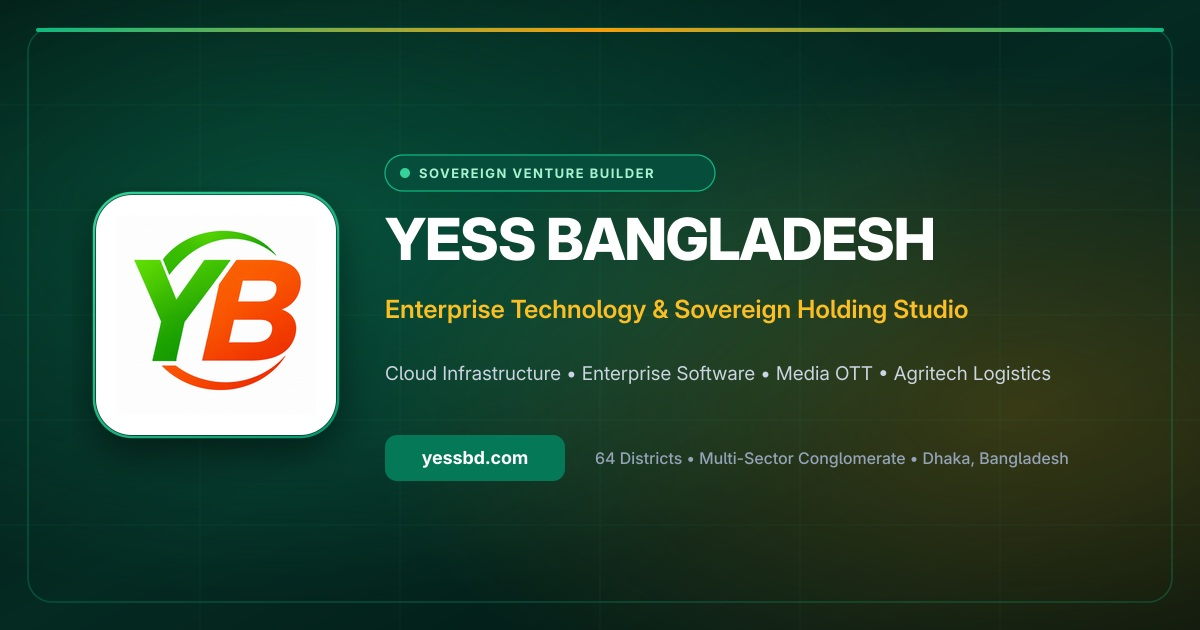
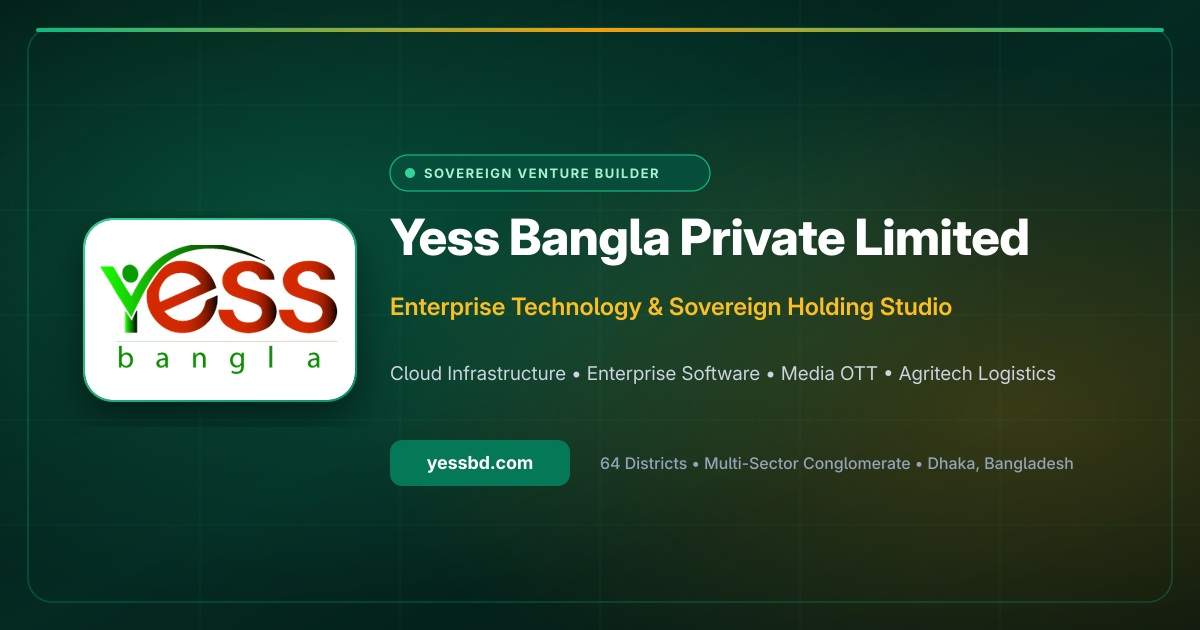
up

diff --git a/nextjs_yessbgd/app/HomeClient.tsx b/nextjs_yessbgd/app/HomeClient.tsx
@@ -106,60 +106,56 @@ export function HomeClient({ sitePage: _sitePage, initialVentures }: HomeClientP
             src="/assets/Hero_Background.webp"
             alt="Yess Bangla Modern Workspace"
             className="w-full h-full object-cover object-center"
+            style={{
+              maskImage:
+                "linear-gradient(90deg, rgba(0,0,0,0.55) 0%, rgba(0,0,0,0.70) 25%, rgba(0,0,0,0.90) 45%, rgba(0,0,0,1) 60%)",
+              WebkitMaskImage:
+                "linear-gradient(90deg, rgba(0,0,0,0.55) 0%, rgba(0,0,0,0.70) 25%, rgba(0,0,0,0.90) 45%, rgba(0,0,0,1) 60%)",
+            }}
             loading="eager"
             fetchPriority="high"
             decoding="sync"
           />
-          {/* Mobile Vertical Gradient Overlay: Soft transparent fade for background image visibility */}
-          <div className="absolute inset-0 bg-gradient-to-b from-white/60 via-white/35 via-[42%] to-transparent to-[75%] lg:hidden" />
-          {/* Desktop Progressive Horizontal Gradient Overlay: Light transparent feather for image visibility */}
-          <div
-            className="hidden lg:block absolute inset-0"
-            style={{
-              background:
-                "linear-gradient(90deg, rgba(255,255,255,0.60) 0%, rgba(255,255,255,0.40) 28%, rgba(255,255,255,0.15) 50%, rgba(255,255,255,0) 70%)",
-            }}
-          />
-          {/* Subtle Bottom soft fade */}
-          <div className="absolute bottom-0 left-0 right-0 h-8 bg-gradient-to-t from-white/40 to-transparent" />
         </div>
 
         {/* Hero Content Container */}
         <div className="relative z-10 max-w-[1200px] mx-auto px-5 sm:px-6 pt-7 pb-20 sm:pt-10 sm:pb-24 lg:pt-14 lg:pb-28">
           <div className="flex flex-col lg:flex-row items-start justify-between">
-            {/* Left Column: Typography, Tagline, CTAs, Social Proof */}
-            <div className="w-full lg:w-[460px] pt-1 sm:pt-2">
+            {/* Left Column: Typography, Tagline, CTAs - NO card box behind text */}
+            <div className="w-full lg:w-[485px] pt-1 sm:pt-2 relative">
               {/* Tagline Pill */}
-              <div className="inline-flex items-center space-x-2 bg-white/90 backdrop-blur-sm border border-emerald-100 px-3 py-1 rounded-full shadow-xs mb-4 sm:mb-5">
-                <span className="w-2 h-2 rounded-full bg-[#0E8A44]" />
-                <span className="text-[#0E8A44] text-[10.5px] sm:text-[11px] font-bold tracking-wider uppercase">
+              <div className="inline-flex items-center space-x-2 bg-white/95 backdrop-blur-sm border border-emerald-300/90 px-3.5 py-1.5 rounded-full shadow-xs mb-4 sm:mb-5">
+                <span className="w-2.5 h-2.5 rounded-full bg-[#047857]" />
+                <span className="text-[#047857] text-[11px] sm:text-[11.5px] font-extrabold tracking-wider uppercase">
                   {language === "bn"
                     ? "স্মার্ট বাংলাদেশ বিনির্মাণে একসাথে"
                     : "A Smarter Bangladesh Together"}
                 </span>
               </div>
 
-              {/* Main Bold Headline */}
-              <h1 className="text-[34px] sm:text-[42px] lg:text-[46px] font-black leading-[1.12] tracking-tight mb-4 sm:mb-5">
+              {/* Main Bold Headline with enhanced contrast & crisp text-shadow */}
+              <h1 className="text-[34px] sm:text-[42px] lg:text-[47px] font-black leading-[1.12] tracking-tight mb-4 sm:mb-5">
                 {language === "bn" ? (
                   <>
-                    <span className="block text-[#0D1E2D]">স্মার্ট সমাধানের জন্য</span>
-                    <span className="block text-[#0E8A44]">আপনার ইকোসিস্টেম</span>
+                    <span className="block text-[#030D18] [text-shadow:_0_0_20px_#ffffff,_0_0_10px_#ffffff,_0_1px_2px_#ffffff]">স্মার্ট সমাধানের জন্য</span>
+                    <span className="block text-[#026E4D] [text-shadow:_0_0_20px_#ffffff,_0_0_10px_#ffffff,_0_1px_2px_#ffffff]">আপনার ইকোসিস্টেম</span>
                   </>
                 ) : (
                   <>
-                    <span className="block text-[#0D1E2D]">Your Ecosystem for</span>
-                    <span className="block text-[#0E8A44]">Smart Solutions</span>
+                    <span className="block text-[#030D18] [text-shadow:_0_0_20px_#ffffff,_0_0_10px_#ffffff,_0_1px_2px_#ffffff]">Your Ecosystem for</span>
+                    <span className="block text-[#026E4D] [text-shadow:_0_0_20px_#ffffff,_0_0_10px_#ffffff,_0_1px_2px_#ffffff]">Smart Solutions</span>
                   </>
                 )}
               </h1>
 
-              {/* Description Paragraph */}
-              <p className="text-[13.5px] sm:text-[14.5px] leading-[1.65] text-[#0F172A] font-medium mb-6 sm:mb-8 max-w-[390px]">
-                {language === "bn"
-                  ? "ইয়েস বাংলায় আমরা এমন ব্যবসা গড়ে তুলি যা মানুষের জীবনে বাস্তব ইতিবাচক পরিবর্তন আনে — পরিষেবা, তাজা খাবার, প্রযুক্তি, সংবাদ ও বিনোদনের মাধ্যমে।"
-                  : "At YESS Bangla, we build and grow businesses that bring real value to people — through services, fresh food, technology, news and entertainment."}
-              </p>
+              {/* Description Paragraph with high-contrast text, left accent, and crisp legibility */}
+              <div className="border-l-3 border-[#0E8A44] pl-3.5 py-0.5 mb-6 sm:mb-8 max-w-[450px]">
+                <p className="text-[14.5px] sm:text-[15.5px] leading-[1.7] text-[#051321] font-bold [text-shadow:_0_0_24px_#ffffff,_0_0_16px_#ffffff,_0_0_8px_#ffffff,_0_1px_2px_#ffffff]">
+                  {language === "bn"
+                    ? "ইয়েস বাংলায় আমরা এমন ব্যবসা গড়ে তুলি যা মানুষের জীবনে বাস্তব ইতিবাচক পরিবর্তন আনে — পরিষেবা, তাজা খাবার, প্রযুক্তি, সংবাদ ও বিনোদনের মাধ্যমে।"
+                    : "At YESS Bangla, we build and grow businesses that bring real value to people — through services, fresh food, technology, news and entertainment."}
+                </p>
+              </div>
 
               {/* Action Buttons (Responsive row on mobile) */}
               <div className="flex items-center space-x-3 sm:space-x-4 mb-6 sm:mb-9 flex-wrap gap-y-2.5">

diff --git a/nextjs_yessbgd/app/layout.tsx b/nextjs_yessbgd/app/layout.tsx
@@ -60,21 +60,21 @@ export const metadata: Metadata = {
     alternateLocale: ["bn_BD"],
     url: "https://yessbd.com",
     siteName: "YESS Bangladesh",
-    title: "YESS Bangladesh — Sovereign Enterprise Studio",
+    title: "Yess Bangla Private Limited — Sovereign Enterprise Studio",
     description: "Sovereign enterprise technology, cloud platforms, and venture studios across Bangladesh.",
     images: [
       {
         url: "/og-image.jpg",
         width: 1200,
         height: 630,
-        alt: "YESS Bangladesh — Sovereign Venture Studio & Holding Company",
+        alt: "Yess Bangla Private Limited — Sovereign Venture Studio & Holding Company",
         type: "image/jpeg",
       },
     ],
   },
   twitter: {
     card: "summary_large_image",
-    title: "YESS Bangladesh — Sovereign Enterprise Studio",
+    title: "Yess Bangla Private Limited — Sovereign Enterprise Studio",
     description: "Sovereign enterprise technology, cloud platforms, and venture studios across Bangladesh.",
     images: ["/og-image.jpg"],
   },
